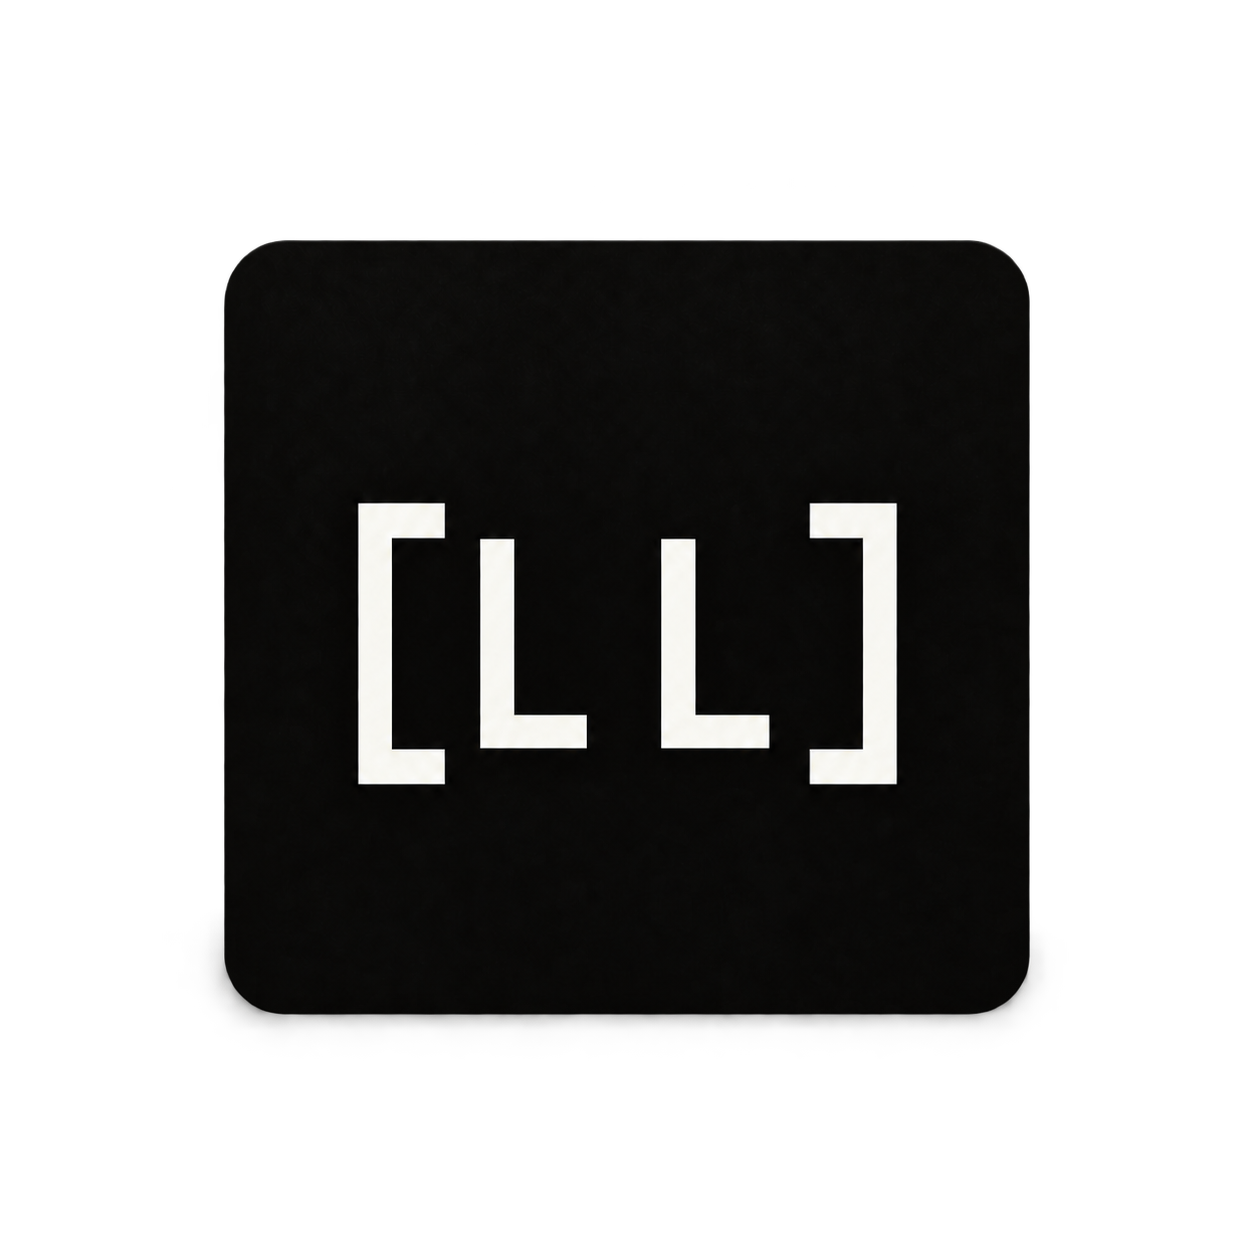
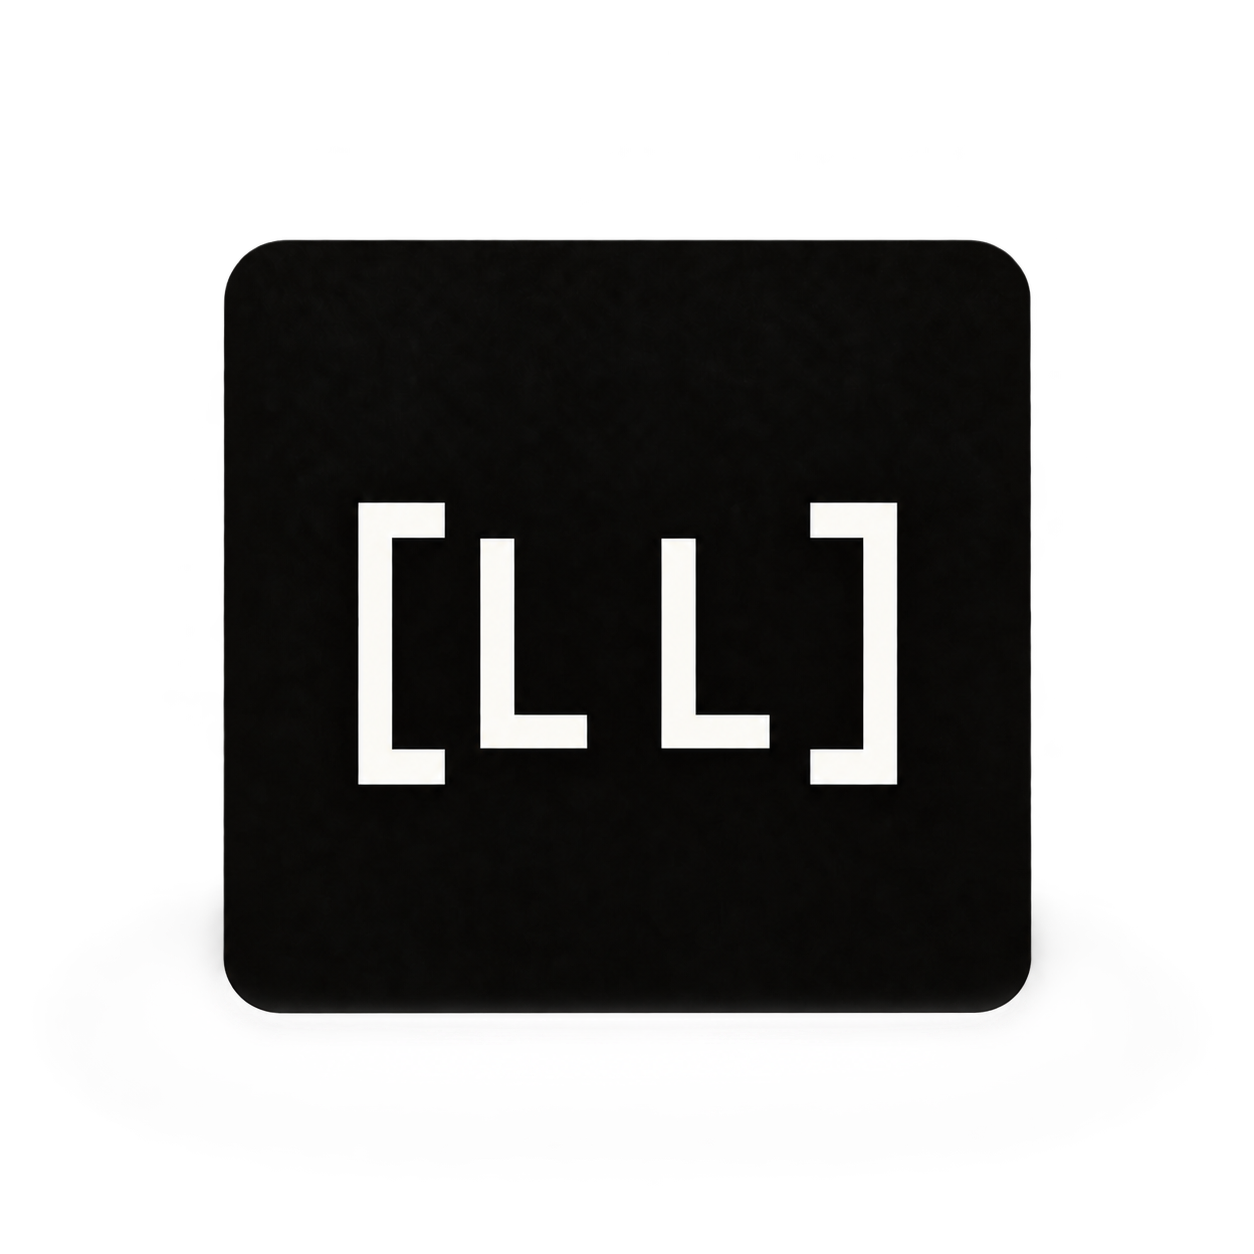
docs: apply approved emblem glow and deployment terminology

Changed region(s): [[0.2177, 0.7775, 0.8086, 0.8397], [0.1555, 0.7775, 0.2177, 0.8086]]

diff --git a/.github/readme/README.md b/.github/readme/README.md
@@ -1,6 +1,6 @@
 # README artwork
 
-- `lloyal-emblem.png`: the approved Lloyal Labs bracket wordmark on a subtly grained black tile, with a transparent exterior and diffuse light below. The source includes transparent padding; a 190 px image displays the tile at roughly 120 px.
+- `lloyal-emblem.png`: the approved Lloyal Labs bracket wordmark on a subtly grained black tile, with the brighter diffuse white underglow outside the lower edge. The background is transparent. The source includes transparent padding; a 190 px image displays the tile at roughly 120 px.
 - `fieldnote-overview.png`: the approved illustrated product overview, composed from Fieldnote application and DevTools assets. Its rooftop-solar example replaces the Product Hunt research topic in the initial rendition. It is an illustration, not an unaltered capture of one recorded run.
 - `ask.jpg`, `frame.jpg`, `write-searching.jpg`, `settle.jpg`, and `three-agents-one-model.jpg`: original application captures, retained unchanged. The agent timeline appears in the README; the four template stages appear individually in `guides/fieldnote-walkthrough.md`.
 

diff --git a/README.md b/README.md
@@ -28,10 +28,6 @@
   </a>
 </p>
 
-<p align="center">
-  <sub>Fieldnote, built with Lloyal. Illustrated application and inference views.</sub>
-</p>
-
 <br />
 
 ## Program the model's working memory
@@ -359,7 +355,7 @@ tools are application code built on the runtime above.
 [Read its source](https://github.com/lloyal-ai/fieldnote) ·
 [Explore the template walkthrough](guides/fieldnote-walkthrough.md)
 
-## One application, three surfaces
+## Deployment surfaces
 
 The same TypeScript harness runs across three interfaces:
 

diff --git a/guides/running-and-configuring.md b/guides/running-and-configuring.md
@@ -2,7 +2,7 @@
 
 [Back to the README](../README.md)
 
-## One program, three surfaces
+## Deployment surfaces
 
 The same `harness(ctx, events, commands)` runs unmodified in a terminal, a native window and a browser. One
 fold of state, one binding each, no view holding truth.
